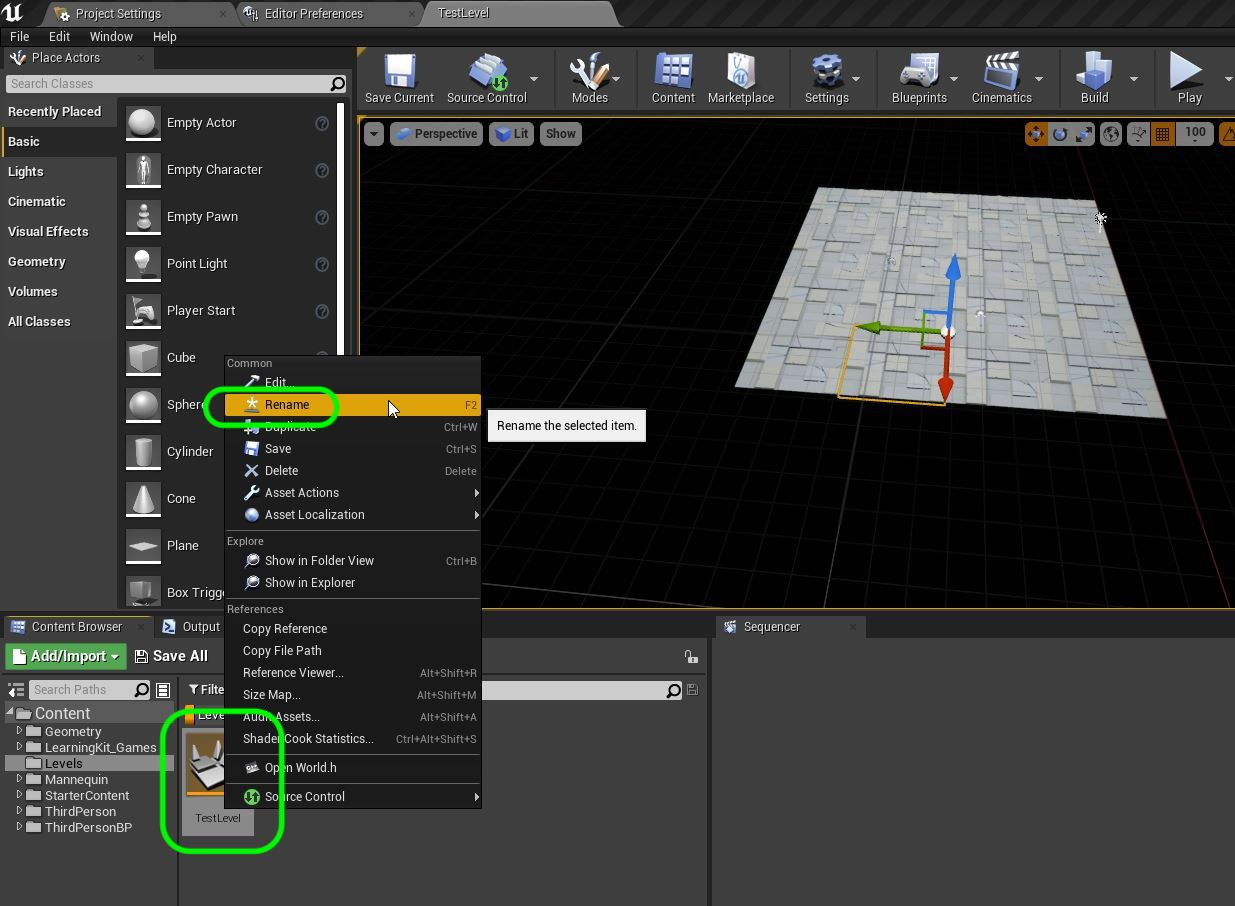
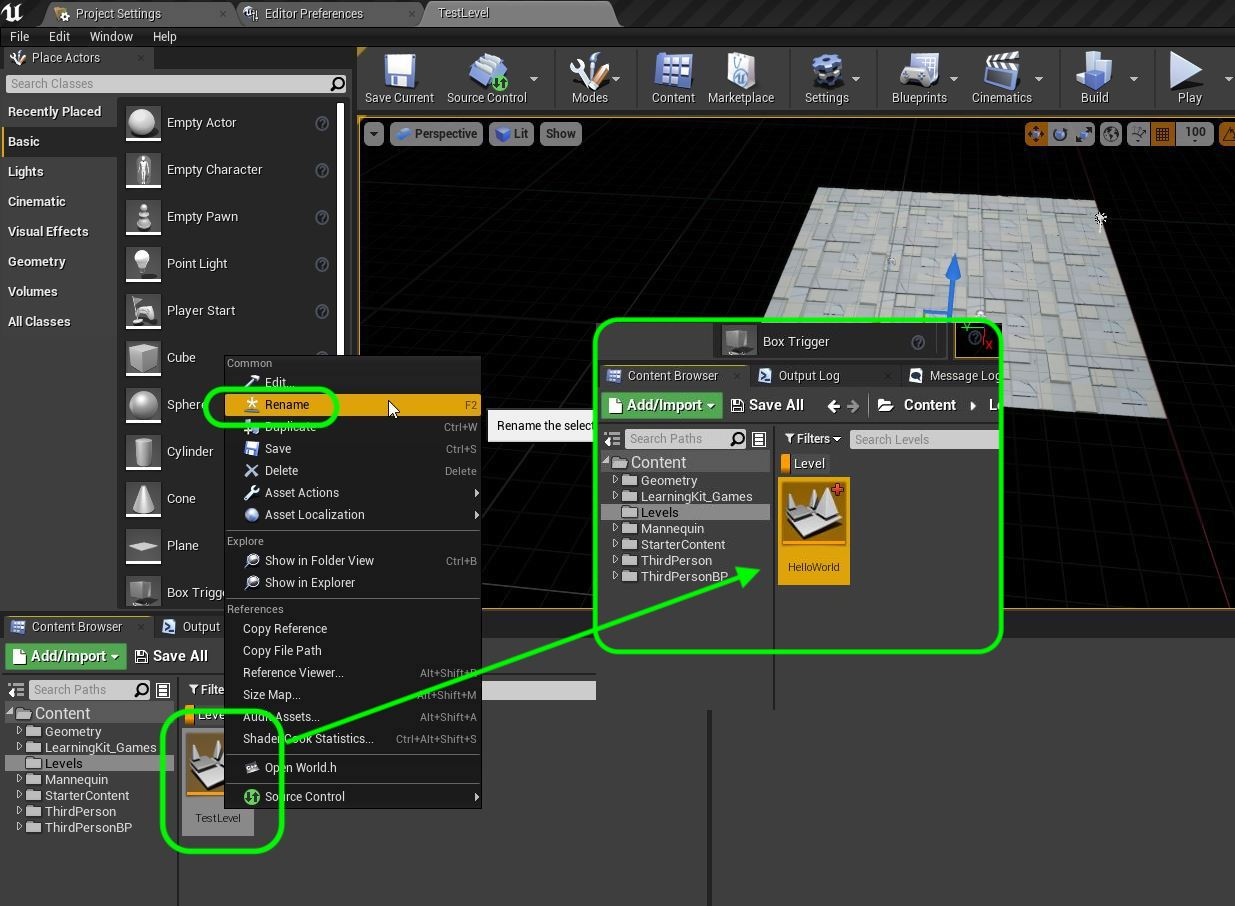
Sdded step

Changed region(s): [[0.2154, 0.34, 0.8308, 0.8344]]

diff --git a/setting-map/README.md b/setting-map/README.md
@@ -25,7 +25,7 @@ OK, lets open Unreal again.  Got to the **Levels** folder and open up **TestLeve
 
 Now we currently don't load to this map when we run **Unreal**.  Lets set this level as the default level to load.  Press the <kbd>Settings</kbd> button and select **Project Settings**.
 
-![alt text](images/OpenProjectSettings.jpg)
+![open project settings](images/OpenProjectSettings.jpg)
 
 <img src="https://via.placeholder.com/500x2/45D7CA/45D7CA" alt="drawing" height="2px" alt = ""/>
 
@@ -40,13 +40,15 @@ Go to **Maps & Modes** and change both the **Editor Startup Map** and **Game Def
 
 In this exercise you will be spelling out **Hello World**.  So right click on the **TestLevel** in **Content** browser.  Name it `HelloWorld`.
 
-![alt text](images/RenameTestLevel.jpg)
+![rename testlevel to helloworld](images/RenameTestLevel.jpg)
 
 <img src="https://via.placeholder.com/500x2/45D7CA/45D7CA" alt="drawing" height="2px" alt = ""/>
 
 ##### `Step 5.`\|`SUU&G`| :small_orange_diamond:
 
-![alt text](images/.jpg)
+Now it is critical that you rename all files and folder **INSIDE** of **UE4**.  Never use the operating system to rename.  If you go back to **Project Settings** you will see that the new level is **Hello World**.  UE4 keeps track of the names so you can rename any object and it will rename all instances of them.
+
+![all files linked look at new name in project settings](images/AllFilesLinked.jpg)
 
 <img src="https://via.placeholder.com/500x2/45D7CA/45D7CA" alt="drawing" height="2px" alt = ""/>
 
